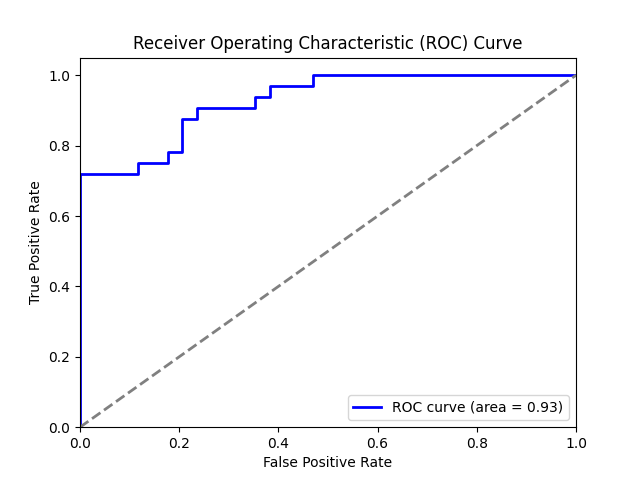
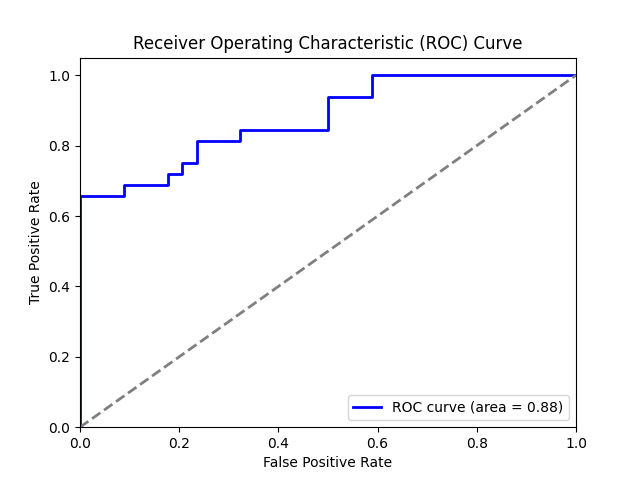
it works

Changed region(s): [[0.125, 0.1562, 0.5938, 0.4062], [0.125, 0.4062, 0.1875, 0.4375], [0.8438, 0.8438, 0.875, 0.875]]

diff --git a/machinevision/assignment4/lecat.py b/machinevision/assignment4/lecat.py
@@ -89,7 +89,7 @@ criterion = nn.BCEWithLogitsLoss()
 optimizer = optim.Adam(model.parameters(), lr=0.001)
 
 # 4. Train the Model
-def train_model(model, criterion, optimizer, dataloader, num_epochs=10):
+def train_model(model, criterion, optimizer, dataloader, num_epochs):
     model.train()
 
     for epoch in range(num_epochs):
@@ -117,7 +117,7 @@ def train_model(model, criterion, optimizer, dataloader, num_epochs=10):
         print(f"Epoch {epoch+1}/{num_epochs}, Loss: {epoch_loss:.4f}, Accuracy: {epoch_acc:.4f}")
 
 # Train the model
-train_model(model, criterion, optimizer, train_loader, num_epochs=10)
+train_model(model, criterion, optimizer, train_loader, num_epochs=8)
 
 # 5. Evaluate and Save Predictions to CSV, and Generate ROC and Confusion Matrix
 def evaluate_and_plot_roc(model, dataloader, output_csv_path, image_filenames):
@@ -138,7 +138,7 @@ def evaluate_and_plot_roc(model, dataloader, output_csv_path, image_filenames):
             probs = torch.sigmoid(outputs).cpu().numpy()
             preds = (probs > 0.5).astype(int)
 
-            all_labels.extend(labels.cpu().numpy())
+            all_labels.extend(labels.detach().cpu().numpy())
             all_probs.extend(probs)
             predicted_labels.extend(preds.flatten())
             filenames.extend(image_filenames[i * dataloader.batch_size: (i + 1) * dataloader.batch_size])
@@ -146,8 +146,14 @@ def evaluate_and_plot_roc(model, dataloader, output_csv_path, image_filenames):
     # Convert lists to numpy arrays for comparison and accuracy calculation
     predicted_labels = np.array(predicted_labels)
     all_labels = np.array(all_labels)
-    accuracy = (predicted_labels == all_labels).mean()
-    print(f'Test Accuracy: {accuracy:.4f}')
+    labelComparison = np.column_stack((all_labels, predicted_labels))
+    print(labelComparison)
+    for i in range(len(labelComparison)):
+        if labelComparison[i][0] == labelComparison[i][1]:
+            correct += 1
+        total += 1
+    testaccuracy = correct / total
+    print(f'Test Accuracy: {testaccuracy:.4f}')
 
     # Save Predictions to CSV
     results_df = pd.DataFrame({
@@ -179,6 +185,21 @@ def evaluate_and_plot_roc(model, dataloader, output_csv_path, image_filenames):
     plt.title('Confusion Matrix')
     plt.savefig(fullDir + 'machinevision/assignment4/confusion_matrix.png')
     plt.show()
+    print(cm)
+    # Calculate Metrics
+    TP = cm[1, 1]
+    TN = cm[0, 0]
+    FP = cm[0, 1]
+    FN = cm[1, 0]
+    accuracy = (TP + TN) / (TP + TN + FP + FN)
+    precision = TP / (TP + FP)
+    recall = TP / (TP + FN)
+    f1_score = 2 * (precision * recall) / (precision + recall)
+    print(f'TP: {TP}, TN: {TN}, FP: {FP}, FN: {FN}')
+    print(f'Accuracy: {accuracy:.4f}')
+    print(f'Precision: {precision:.4f}')
+    print(f'Recall: {recall:.4f}')
+    print(f'F1 Score: {f1_score:.4f}')
 
 
 # Evaluate and plot
